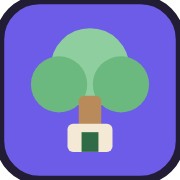
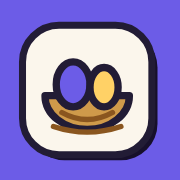
Rebrand from Treehouse to Nest
New name and logo. The identity is a lowercase "nest" wordmark with a
hand-drawn swoop and two eggs settling into it (new Wordmark component on
the sign-in screen), plus a companion nest-and-eggs sticker mark used for
the favicon, PWA icon and Apple touch icon.

- New favicon.svg (nest + eggs sticker) and regenerated icon-512.png /
  apple-touch-icon.png (full-bleed violet so iOS shows no transparent
  corners).
- Renamed all user-facing "Treehouse" → "Nest": manifest name/short_name,
  page title, notification titles, calendar feed name, in-app copy, and
  the backup zip folder/filename.
- Internal storage keys (treehouse:data:v1, treehouse-files, etc.) are
  deliberately left unchanged so existing on-device data still loads; the
  app URL is unchanged too.

Claude-Session: https://claude.ai/code/session_01Vmg3aFgapktSsppAQi6471

diff --git a/src/components/FamilyScreen.jsx b/src/components/FamilyScreen.jsx
@@ -57,13 +57,13 @@ export default function FamilyScreen({
     if (backingUp) return
     setBackingUp(true)
     try {
-      const files = [{ name: 'treehouse/data.json', data: JSON.stringify(data, null, 2) }]
+      const files = [{ name: 'nest/data.json', data: JSON.stringify(data, null, 2) }]
       for (const doc of data.documents) {
         const blob = await getFile(doc.fileId).catch(() => null)
         if (blob) {
           const name = safeFileName(doc.title, doc.id)
           files.push({
-            name: `treehouse/documents/${name}-${doc.id}${extensionFor(doc.fileName, blob.type)}`,
+            name: `nest/documents/${name}-${doc.id}${extensionFor(doc.fileName, blob.type)}`,
             data: blob,
           })
         }
@@ -72,7 +72,7 @@ export default function FamilyScreen({
         const blob = await getFile(photo.fileId).catch(() => null)
         if (blob) {
           files.push({
-            name: `treehouse/photos/${photo.id}${extensionFor('', blob.type) || '.jpg'}`,
+            name: `nest/photos/${photo.id}${extensionFor('', blob.type) || '.jpg'}`,
             data: blob,
           })
         }
@@ -82,7 +82,7 @@ export default function FamilyScreen({
         const blob = await getFile(member.avatarFileId).catch(() => null)
         if (blob) {
           files.push({
-            name: `treehouse/avatars/${safeFileName(member.name, member.id)}${extensionFor('', blob.type) || '.jpg'}`,
+            name: `nest/avatars/${safeFileName(member.name, member.id)}${extensionFor('', blob.type) || '.jpg'}`,
             data: blob,
           })
         }
@@ -91,7 +91,7 @@ export default function FamilyScreen({
       const url = URL.createObjectURL(zip)
       const link = document.createElement('a')
       link.href = url
-      link.download = `treehouse-backup-${todayKey()}.zip`
+      link.download = `nest-backup-${todayKey()}.zip`
       link.click()
       setTimeout(() => URL.revokeObjectURL(url), 30000)
     } catch (error) {

diff --git a/src/components/Wordmark.jsx b/src/components/Wordmark.jsx
@@ -1,0 +1,34 @@
+// The Nest wordmark lockup: the lowercase name with a hand-drawn nest swoop
+// and two eggs settling into it. Colours come from the theme tokens so it
+// works in light and dark. Renders in Space Grotesk where it's loaded.
+export default function Wordmark({ className = '' }) {
+  return (
+    <svg
+      className={`wordmark ${className}`}
+      viewBox="0 0 190 92"
+      role="img"
+      aria-label="Nest"
+      fill="none"
+    >
+      <text
+        x="6"
+        y="58"
+        fontFamily="'Space Grotesk', system-ui, sans-serif"
+        fontSize="58"
+        fontWeight="700"
+        letterSpacing="-2.5"
+        fill="var(--ink)"
+      >
+        nest
+      </text>
+      <path
+        d="M12 74 q44 15 88 1"
+        stroke="var(--accent)"
+        strokeWidth="5.5"
+        strokeLinecap="round"
+      />
+      <ellipse cx="52" cy="77" rx="5.5" ry="6.5" fill="var(--pop)" stroke="var(--ink)" strokeWidth="2.5" />
+      <ellipse cx="66" cy="76" rx="4.5" ry="5.5" fill="var(--accent)" stroke="var(--ink)" strokeWidth="2.5" />
+    </svg>
+  )
+}

diff --git a/supabase/functions/ics-proxy/index.ts b/supabase/functions/ics-proxy/index.ts
@@ -1,9 +1,9 @@
-// Treehouse ICS proxy (Supabase Edge Function)
+// Nest ICS proxy (Supabase Edge Function)
 // ============================================
 // Fetches an external calendar feed (Google/Outlook/iCloud ".ics" URL) server
 // side and returns the raw text with CORS headers, because those feeds don't
 // allow the browser to read them directly. Deploy with JWT verification ON —
-// only signed-in Treehouse users may call it, so it isn't an open proxy.
+// only signed-in Nest users may call it, so it isn't an open proxy.
 //
 //   POST { "url": "https://calendar.google.com/…/basic.ics" }
 //
@@ -69,7 +69,7 @@ Deno.serve(async (req) => {
   const timeout = setTimeout(() => controller.abort(), 15000);
   try {
     const upstream = await fetch(url.toString(), {
-      headers: { Accept: "text/calendar, text/plain, */*", "User-Agent": "Treehouse-Calendar/1.0" },
+      headers: { Accept: "text/calendar, text/plain, */*", "User-Agent": "Nest-Calendar/1.0" },
       signal: controller.signal,
       redirect: "follow",
     });

diff --git a/supabase/functions/calendar-feed/index.ts b/supabase/functions/calendar-feed/index.ts
@@ -1,4 +1,4 @@
-// Treehouse calendar feed (Supabase Edge Function)
+// Nest calendar feed (Supabase Edge Function)
 // ================================================
 // Serves the household's calendar as an ICS feed that Google Calendar /
 // Apple Calendar can subscribe to:
@@ -129,7 +129,7 @@ function icsForEvents(events: Ev[], calendarName: string): string {
   const lines = [
     "BEGIN:VCALENDAR",
     "VERSION:2.0",
-    "PRODID:-//Treehouse//Family Hub//EN",
+    "PRODID:-//Nest//Family Hub//EN",
     "CALSCALE:GREGORIAN",
     "METHOD:PUBLISH",
     `X-WR-CALNAME:${escapeText(calendarName)}`,
@@ -204,7 +204,7 @@ Deno.serve(async (req) => {
     ...birthdays(familyData.children, startKey, endKey),
   ].sort((a, b) => a.date.localeCompare(b.date));
 
-  return new Response(icsForEvents(all, "Treehouse"), {
+  return new Response(icsForEvents(all, "Nest"), {
     headers: {
       "Content-Type": "text/calendar; charset=utf-8",
       "Cache-Control": "private, max-age=900",

diff --git a/src/components/CalendarFeedCard.jsx b/src/components/CalendarFeedCard.jsx
@@ -13,7 +13,7 @@ const randomToken = () => {
 }
 
 // Settings card: a private ICS link other calendar apps can subscribe to, so
-// Treehouse events (recurring ones included, plus birthdays) show up in
+// Nest events (recurring ones included, plus birthdays) show up in
 // Google Calendar / Apple Calendar. Served by the calendar-feed edge function.
 export default function CalendarFeedCard({ user }) {
   const [token, setToken] = useState(null) // null = loading, '' = none yet
@@ -80,7 +80,7 @@ export default function CalendarFeedCard({ user }) {
     <section className="card">
       <h2>Calendar feed</h2>
       <p className="muted">
-        See Treehouse events inside Google Calendar or Apple Calendar: create your private link,
+        See Nest events inside Google Calendar or Apple Calendar: create your private link,
         then subscribe to it from the other calendar. It updates automatically (calendar apps
         refresh subscribed feeds every few hours).
       </p>

diff --git a/src/index.css b/src/index.css
@@ -1,9 +1,9 @@
 /* ---------------------------------------------------------------------------
-   Treehouse — design tokens + base styles. Mobile-first; light & dark themes
+   Nest — design tokens + base styles. Mobile-first; light & dark themes
    driven by [data-theme] on <html> (set before paint in index.html).
 --------------------------------------------------------------------------- */
 
-/* Treehouse's own look: playful neo-brutalism. Bold ink outlines, hard
+/* Nest's own look: playful neo-brutalism. Bold ink outlines, hard
    offset shadows, electric violet + sunshine yellow on lavender paper. */
 :root {
   --accent: #6c5ce7;
@@ -1522,6 +1522,17 @@ button {
 
 .signin h1 {
   font-size: 2.1rem;
+}
+
+.wordmark {
+  display: block;
+  height: auto;
+}
+
+.signin-wordmark {
+  width: 190px;
+  max-width: 62%;
+  margin: 0.2rem 0 0.1rem;
 }
 
 .signin p {

diff --git a/src/components/RemindersCard.jsx b/src/components/RemindersCard.jsx
@@ -18,7 +18,7 @@ export default function RemindersCard({ user }) {
       {reminders.status === 'ios-install' && (
         <p className="muted">
           On iPhone, reminders need the app on your Home Screen first: share button →{' '}
-          <strong>Add to Home Screen</strong>, then open Treehouse from there.
+          <strong>Add to Home Screen</strong>, then open Nest from there.
         </p>
       )}
       {reminders.status === 'unsupported' && (
@@ -26,7 +26,7 @@ export default function RemindersCard({ user }) {
       )}
       {reminders.status === 'denied' && (
         <p className="muted">
-          Notifications are blocked for Treehouse in your device settings — allow them there, then
+          Notifications are blocked for Nest in your device settings — allow them there, then
           come back.
         </p>
       )}

diff --git a/public/sw.js b/public/sw.js
@@ -1,4 +1,4 @@
-// Treehouse service worker: network-first with cache fallback for same-origin
+// Nest service worker: network-first with cache fallback for same-origin
 // GET requests. Online, every request hits the network (so deploys arrive
 // immediately and the in-app update prompt keeps working); each good response
 // refreshes the cache. Offline, the cached copy serves — the app shell and
@@ -42,7 +42,7 @@ self.addEventListener('push', (event) => {
     data = { body: event.data ? event.data.text() : '' }
   }
   event.waitUntil(
-    self.registration.showNotification(data.title || 'Treehouse', {
+    self.registration.showNotification(data.title || 'Nest', {
       body: data.body || '',
       icon: './icon-512.png',
       badge: './icon-512.png',

diff --git a/src/components/SignInScreen.jsx b/src/components/SignInScreen.jsx
@@ -1,11 +1,13 @@
+import Wordmark from './Wordmark.jsx'
+
 // Shown when cloud sync is configured but nobody is signed in. Google is the
 // only provider for now (it's a two-parent app); "use on this device only"
 // keeps the local-only mode reachable.
 export default function SignInScreen({ onGoogle, onSkip }) {
   return (
     <div className="signin">
-      <img src={`${import.meta.env.BASE_URL}favicon.svg`} alt="" width="72" height="72" />
-      <h1>Treehouse</h1>
+      <img src={`${import.meta.env.BASE_URL}favicon.svg`} alt="" width="76" height="76" />
+      <Wordmark className="signin-wordmark" />
       <p className="muted">
         Your whole family's calendar, to-dos, documents and photos — private, on all your devices.
       </p>

diff --git a/supabase/functions/send-reminders/index.ts b/supabase/functions/send-reminders/index.ts
@@ -1,4 +1,4 @@
-// Treehouse morning digest (Supabase Edge Function)
+// Nest morning digest (Supabase Edge Function)
 // =================================================
 // Sends one web-push notification per subscribed device summarising the day:
 // today's events (recurring ones expanded, birthdays included), to-dos due
@@ -207,7 +207,7 @@ Deno.serve(async (req) => {
       continue;
     }
     const payload = JSON.stringify({
-      title: `Treehouse — ${dayLabel}`,
+      title: `Nest — ${dayLabel}`,
       body: lines.join("\n"),
       url: appUrl,
     });

diff --git a/index.html b/index.html
@@ -16,8 +16,8 @@
     />
     <meta name="apple-mobile-web-app-capable" content="yes" />
     <meta name="apple-mobile-web-app-status-bar-style" content="black-translucent" />
-    <meta name="apple-mobile-web-app-title" content="Treehouse" />
-    <title>Treehouse — the family hub</title>
+    <meta name="apple-mobile-web-app-title" content="Nest" />
+    <title>Nest — the family hub</title>
     <!-- Apply the saved theme before paint so there's no light flash in dark mode. -->
     <script>
       (function () {

diff --git a/src/components/HomeScreen.jsx b/src/components/HomeScreen.jsx
@@ -93,7 +93,7 @@ export default function HomeScreen({ data, onNavigate, externalOccurrences }) {
       {data.children.length === 0 && (
         <button type="button" className="card card-cta" onClick={() => onNavigate('family')}>
           <strong>Start by adding your family</strong>
-          <span>Everything in Treehouse — events, documents, photos — can be tagged to them.</span>
+          <span>Everything in Nest — events, documents, photos — can be tagged to them.</span>
         </button>
       )}
 
